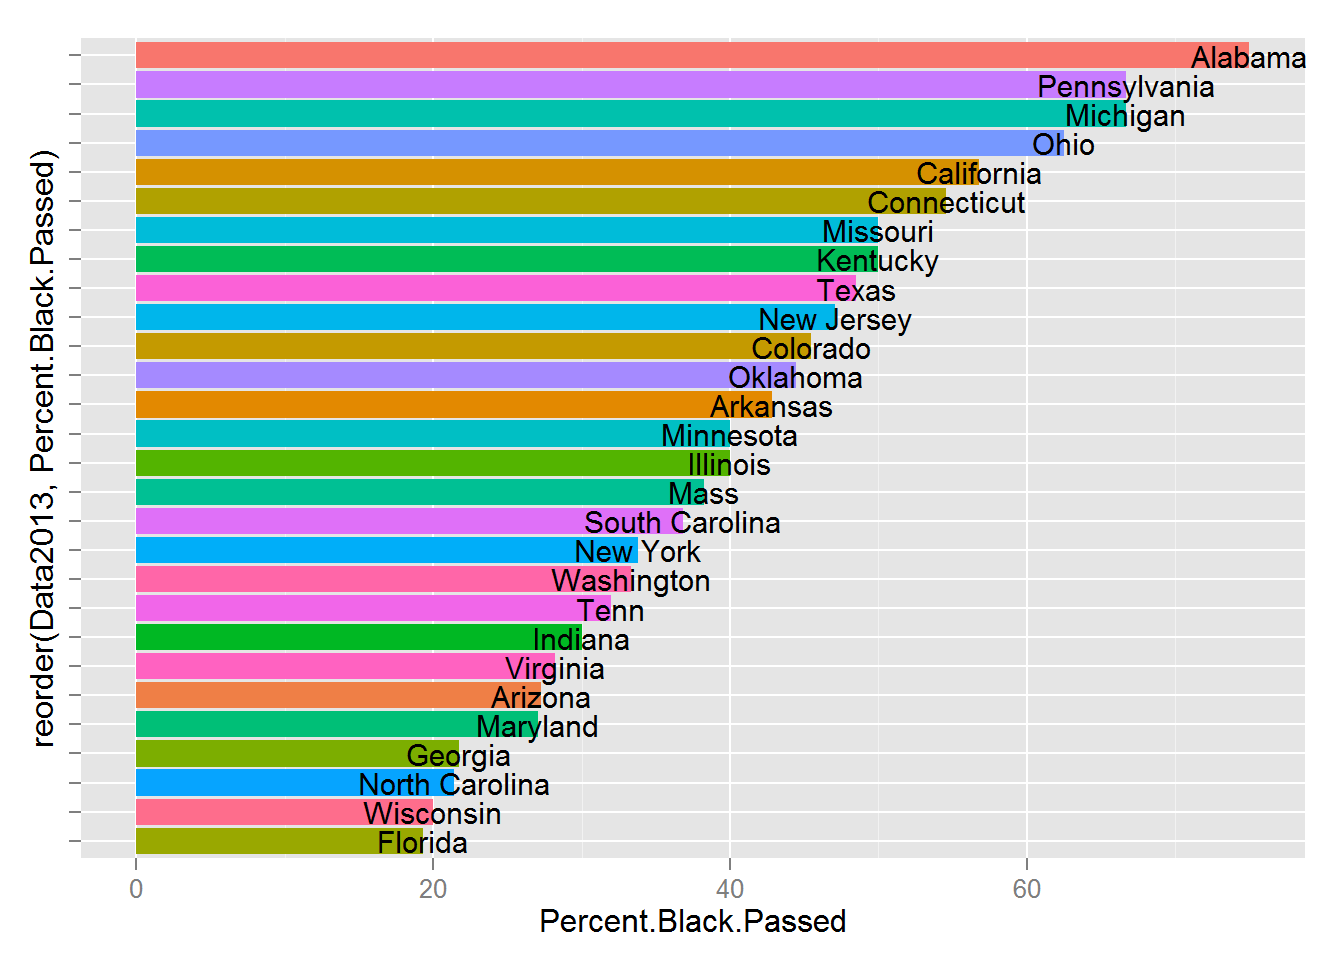
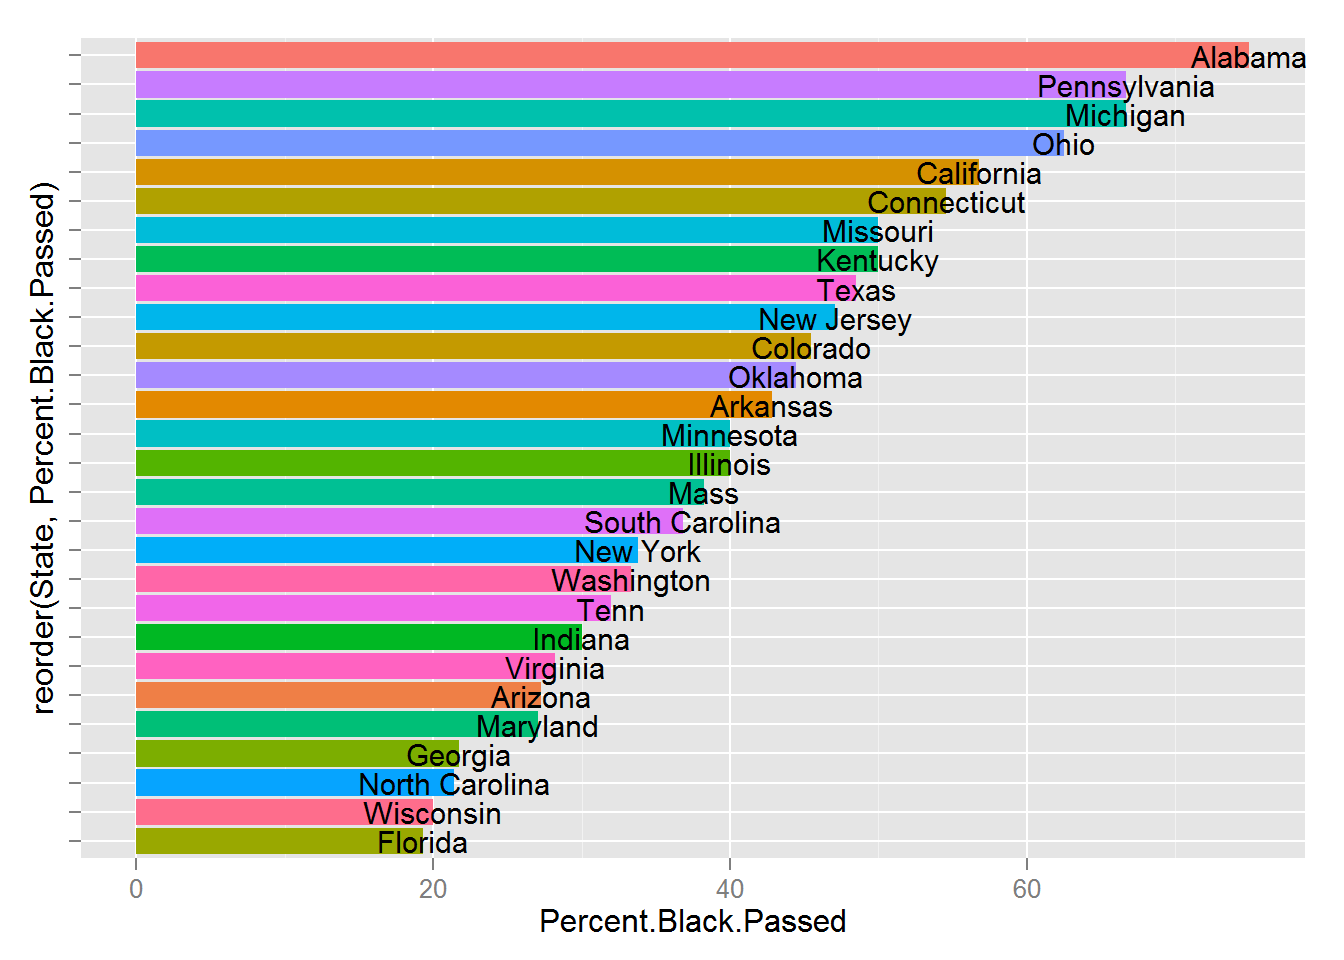
lets hope this works

Changed region(s): [[0.0, 0.1562, 0.0625, 0.7812]]

diff --git a/blackpercentagebar.html b/blackpercentagebar.html
@@ -2,7 +2,7 @@
   "http://www.w3.org/TR/xhtml1/DTD/xhtml1-strict.dtd">
 <html xmlns="http://www.w3.org/1999/xhtml">
 <head>
-<title>BarChartIDcb46c613d25</title>
+<title>BarChartID2ac76c16153</title>
 <meta http-equiv="content-type" content="text/html;charset=utf-8" />
 <style type="text/css">
 body {
@@ -18,14 +18,14 @@ body {
 </head>
 <body>
  <!-- BarChart generated in R 3.1.1 by googleVis 0.5.6 package -->
-<!-- Wed Nov 12 14:20:09 2014 -->
+<!-- Tue Nov 18 16:54:19 2014 -->
 
 
 <!-- jsHeader -->
 <script type="text/javascript">
  
 // jsData 
-function gvisDataBarChartIDcb46c613d25 () {
+function gvisDataBarChartID2ac76c16153 () {
 var data = new google.visualization.DataTable();
 var datajson =
 [
@@ -142,15 +142,15 @@ var datajson =
 19.27710843 
 ] 
 ];
-data.addColumn('string','Data2013');
+data.addColumn('string','State');
 data.addColumn('number','Percent.Black.Passed');
 data.addRows(datajson);
 return(data);
 }
  
 // jsDrawChart
-function drawChartBarChartIDcb46c613d25() {
-var data = gvisDataBarChartIDcb46c613d25();
+function drawChartBarChartID2ac76c16153() {
+var data = gvisDataBarChartID2ac76c16153();
 var options = {};
 options["allowHtml"] = true;
 options["width"] =    800;
@@ -158,7 +158,7 @@ options["height"] =    800;
 
 
     var chart = new google.visualization.BarChart(
-    document.getElementById('BarChartIDcb46c613d25')
+    document.getElementById('BarChartID2ac76c16153')
     );
     chart.draw(data,options);
     
@@ -182,9 +182,9 @@ if (newPackage)
   pkgs.push(chartid);
   
 // Add the drawChart function to the global list of callbacks
-callbacks.push(drawChartBarChartIDcb46c613d25);
+callbacks.push(drawChartBarChartID2ac76c16153);
 })();
-function displayChartBarChartIDcb46c613d25() {
+function displayChartBarChartID2ac76c16153() {
   var pkgs = window.__gvisPackages = window.__gvisPackages || [];
   var callbacks = window.__gvisCallbacks = window.__gvisCallbacks || [];
   window.clearTimeout(window.__gvisLoad);
@@ -208,14 +208,14 @@ callbacks.shift()();
 </script>
  
 <!-- jsChart -->  
-<script type="text/javascript" src="https://www.google.com/jsapi?callback=displayChartBarChartIDcb46c613d25"></script>
+<script type="text/javascript" src="https://www.google.com/jsapi?callback=displayChartBarChartID2ac76c16153"></script>
  
 <!-- divChart -->
   
-<div id="BarChartIDcb46c613d25" 
+<div id="BarChartID2ac76c16153" 
   style="width: 800; height: 800;">
 </div>
- <div><span>Data: data &#8226; Chart ID: <a href="Chart_BarChartIDcb46c613d25.html">BarChartIDcb46c613d25</a> &#8226; <a href="https://github.com/mages/googleVis">googleVis-0.5.6</a></span><br /> 
+ <div><span>Data: data &#8226; Chart ID: <a href="Chart_BarChartID2ac76c16153.html">BarChartID2ac76c16153</a> &#8226; <a href="https://github.com/mages/googleVis">googleVis-0.5.6</a></span><br /> 
 <!-- htmlFooter -->
 <span> 
   R version 3.1.1 (2014-07-10) 

diff --git a/girlpercentagebar.html b/girlpercentagebar.html
@@ -2,7 +2,7 @@
   "http://www.w3.org/TR/xhtml1/DTD/xhtml1-strict.dtd">
 <html xmlns="http://www.w3.org/1999/xhtml">
 <head>
-<title>BarChartIDcb410223ce1</title>
+<title>BarChartID2ac55d82739</title>
 <meta http-equiv="content-type" content="text/html;charset=utf-8" />
 <style type="text/css">
 body {
@@ -18,14 +18,14 @@ body {
 </head>
 <body>
  <!-- BarChart generated in R 3.1.1 by googleVis 0.5.6 package -->
-<!-- Wed Nov 12 14:20:11 2014 -->
+<!-- Tue Nov 18 16:54:21 2014 -->
 
 
 <!-- jsHeader -->
 <script type="text/javascript">
  
 // jsData 
-function gvisDataBarChartIDcb410223ce1 () {
+function gvisDataBarChartID2ac55d82739 () {
 var data = new google.visualization.DataTable();
 var datajson =
 [
@@ -190,15 +190,15 @@ var datajson =
 34.96732026 
 ] 
 ];
-data.addColumn('string','Data2013');
+data.addColumn('string','State');
 data.addColumn('number','Percentfemalepassed');
 data.addRows(datajson);
 return(data);
 }
  
 // jsDrawChart
-function drawChartBarChartIDcb410223ce1() {
-var data = gvisDataBarChartIDcb410223ce1();
+function drawChartBarChartID2ac55d82739() {
+var data = gvisDataBarChartID2ac55d82739();
 var options = {};
 options["allowHtml"] = true;
 options["width"] =    800;
@@ -206,7 +206,7 @@ options["height"] =    800;
 
 
     var chart = new google.visualization.BarChart(
-    document.getElementById('BarChartIDcb410223ce1')
+    document.getElementById('BarChartID2ac55d82739')
     );
     chart.draw(data,options);
     
@@ -230,9 +230,9 @@ if (newPackage)
   pkgs.push(chartid);
   
 // Add the drawChart function to the global list of callbacks
-callbacks.push(drawChartBarChartIDcb410223ce1);
+callbacks.push(drawChartBarChartID2ac55d82739);
 })();
-function displayChartBarChartIDcb410223ce1() {
+function displayChartBarChartID2ac55d82739() {
   var pkgs = window.__gvisPackages = window.__gvisPackages || [];
   var callbacks = window.__gvisCallbacks = window.__gvisCallbacks || [];
   window.clearTimeout(window.__gvisLoad);
@@ -256,14 +256,14 @@ callbacks.shift()();
 </script>
  
 <!-- jsChart -->  
-<script type="text/javascript" src="https://www.google.com/jsapi?callback=displayChartBarChartIDcb410223ce1"></script>
+<script type="text/javascript" src="https://www.google.com/jsapi?callback=displayChartBarChartID2ac55d82739"></script>
  
 <!-- divChart -->
   
-<div id="BarChartIDcb410223ce1" 
+<div id="BarChartID2ac55d82739" 
   style="width: 800; height: 800;">
 </div>
- <div><span>Data: data &#8226; Chart ID: <a href="Chart_BarChartIDcb410223ce1.html">BarChartIDcb410223ce1</a> &#8226; <a href="https://github.com/mages/googleVis">googleVis-0.5.6</a></span><br /> 
+ <div><span>Data: data &#8226; Chart ID: <a href="Chart_BarChartID2ac55d82739.html">BarChartID2ac55d82739</a> &#8226; <a href="https://github.com/mages/googleVis">googleVis-0.5.6</a></span><br /> 
 <!-- htmlFooter -->
 <span> 
   R version 3.1.1 (2014-07-10) 

diff --git a/p2gvis.html b/p2gvis.html
@@ -2,7 +2,7 @@
   "http://www.w3.org/TR/xhtml1/DTD/xhtml1-strict.dtd">
 <html xmlns="http://www.w3.org/1999/xhtml">
 <head>
-<title>ScatterChartIDcb4571978fd</title>
+<title>ScatterChartID2ac7af61505</title>
 <meta http-equiv="content-type" content="text/html;charset=utf-8" />
 <style type="text/css">
 body {
@@ -18,14 +18,14 @@ body {
 </head>
 <body>
  <!-- ScatterChart generated in R 3.1.1 by googleVis 0.5.6 package -->
-<!-- Wed Nov 12 14:20:10 2014 -->
+<!-- Tue Nov 18 16:54:20 2014 -->
 
 
 <!-- jsHeader -->
 <script type="text/javascript">
  
 // jsData 
-function gvisDataScatterChartIDcb4571978fd () {
+function gvisDataScatterChartID2ac7af61505 () {
 var data = new google.visualization.DataTable();
 var datajson =
 [
@@ -149,8 +149,8 @@ return(data);
 }
  
 // jsDrawChart
-function drawChartScatterChartIDcb4571978fd() {
-var data = gvisDataScatterChartIDcb4571978fd();
+function drawChartScatterChartID2ac7af61505() {
+var data = gvisDataScatterChartID2ac7af61505();
 var options = {};
 options["allowHtml"] = true;
 options["width"] =    800;
@@ -159,7 +159,7 @@ options["pointSize"] =      5;
 
 
     var chart = new google.visualization.ScatterChart(
-    document.getElementById('ScatterChartIDcb4571978fd')
+    document.getElementById('ScatterChartID2ac7af61505')
     );
     chart.draw(data,options);
     
@@ -183,9 +183,9 @@ if (newPackage)
   pkgs.push(chartid);
   
 // Add the drawChart function to the global list of callbacks
-callbacks.push(drawChartScatterChartIDcb4571978fd);
+callbacks.push(drawChartScatterChartID2ac7af61505);
 })();
-function displayChartScatterChartIDcb4571978fd() {
+function displayChartScatterChartID2ac7af61505() {
   var pkgs = window.__gvisPackages = window.__gvisPackages || [];
   var callbacks = window.__gvisCallbacks = window.__gvisCallbacks || [];
   window.clearTimeout(window.__gvisLoad);
@@ -209,14 +209,14 @@ callbacks.shift()();
 </script>
  
 <!-- jsChart -->  
-<script type="text/javascript" src="https://www.google.com/jsapi?callback=displayChartScatterChartIDcb4571978fd"></script>
+<script type="text/javascript" src="https://www.google.com/jsapi?callback=displayChartScatterChartID2ac7af61505"></script>
  
 <!-- divChart -->
   
-<div id="ScatterChartIDcb4571978fd" 
+<div id="ScatterChartID2ac7af61505" 
   style="width: 800; height: 800;">
 </div>
- <div><span>Data: p2set &#8226; Chart ID: <a href="Chart_ScatterChartIDcb4571978fd.html">ScatterChartIDcb4571978fd</a> &#8226; <a href="https://github.com/mages/googleVis">googleVis-0.5.6</a></span><br /> 
+ <div><span>Data: p2set &#8226; Chart ID: <a href="Chart_ScatterChartID2ac7af61505.html">ScatterChartID2ac7af61505</a> &#8226; <a href="https://github.com/mages/googleVis">googleVis-0.5.6</a></span><br /> 
 <!-- htmlFooter -->
 <span> 
   R version 3.1.1 (2014-07-10) 

diff --git a/p1gvis.html b/p1gvis.html
@@ -2,7 +2,7 @@
   "http://www.w3.org/TR/xhtml1/DTD/xhtml1-strict.dtd">
 <html xmlns="http://www.w3.org/1999/xhtml">
 <head>
-<title>ScatterChartIDcb432a01e7f</title>
+<title>ScatterChartID2ac9125774</title>
 <meta http-equiv="content-type" content="text/html;charset=utf-8" />
 <style type="text/css">
 body {
@@ -18,14 +18,14 @@ body {
 </head>
 <body>
  <!-- ScatterChart generated in R 3.1.1 by googleVis 0.5.6 package -->
-<!-- Wed Nov 12 14:20:10 2014 -->
+<!-- Tue Nov 18 16:54:20 2014 -->
 
 
 <!-- jsHeader -->
 <script type="text/javascript">
  
 // jsData 
-function gvisDataScatterChartIDcb432a01e7f () {
+function gvisDataScatterChartID2ac9125774 () {
 var data = new google.visualization.DataTable();
 var datajson =
 [
@@ -149,8 +149,8 @@ return(data);
 }
  
 // jsDrawChart
-function drawChartScatterChartIDcb432a01e7f() {
-var data = gvisDataScatterChartIDcb432a01e7f();
+function drawChartScatterChartID2ac9125774() {
+var data = gvisDataScatterChartID2ac9125774();
 var options = {};
 options["allowHtml"] = true;
 options["width"] =    800;
@@ -159,7 +159,7 @@ options["pointSize"] =      5;
 
 
     var chart = new google.visualization.ScatterChart(
-    document.getElementById('ScatterChartIDcb432a01e7f')
+    document.getElementById('ScatterChartID2ac9125774')
     );
     chart.draw(data,options);
     
@@ -183,9 +183,9 @@ if (newPackage)
   pkgs.push(chartid);
   
 // Add the drawChart function to the global list of callbacks
-callbacks.push(drawChartScatterChartIDcb432a01e7f);
+callbacks.push(drawChartScatterChartID2ac9125774);
 })();
-function displayChartScatterChartIDcb432a01e7f() {
+function displayChartScatterChartID2ac9125774() {
   var pkgs = window.__gvisPackages = window.__gvisPackages || [];
   var callbacks = window.__gvisCallbacks = window.__gvisCallbacks || [];
   window.clearTimeout(window.__gvisLoad);
@@ -209,14 +209,14 @@ callbacks.shift()();
 </script>
  
 <!-- jsChart -->  
-<script type="text/javascript" src="https://www.google.com/jsapi?callback=displayChartScatterChartIDcb432a01e7f"></script>
+<script type="text/javascript" src="https://www.google.com/jsapi?callback=displayChartScatterChartID2ac9125774"></script>
  
 <!-- divChart -->
   
-<div id="ScatterChartIDcb432a01e7f" 
+<div id="ScatterChartID2ac9125774" 
   style="width: 800; height: 800;">
 </div>
- <div><span>Data: p1set &#8226; Chart ID: <a href="Chart_ScatterChartIDcb432a01e7f.html">ScatterChartIDcb432a01e7f</a> &#8226; <a href="https://github.com/mages/googleVis">googleVis-0.5.6</a></span><br /> 
+ <div><span>Data: p1set &#8226; Chart ID: <a href="Chart_ScatterChartID2ac9125774.html">ScatterChartID2ac9125774</a> &#8226; <a href="https://github.com/mages/googleVis">googleVis-0.5.6</a></span><br /> 
 <!-- htmlFooter -->
 <span> 
   R version 3.1.1 (2014-07-10) 
